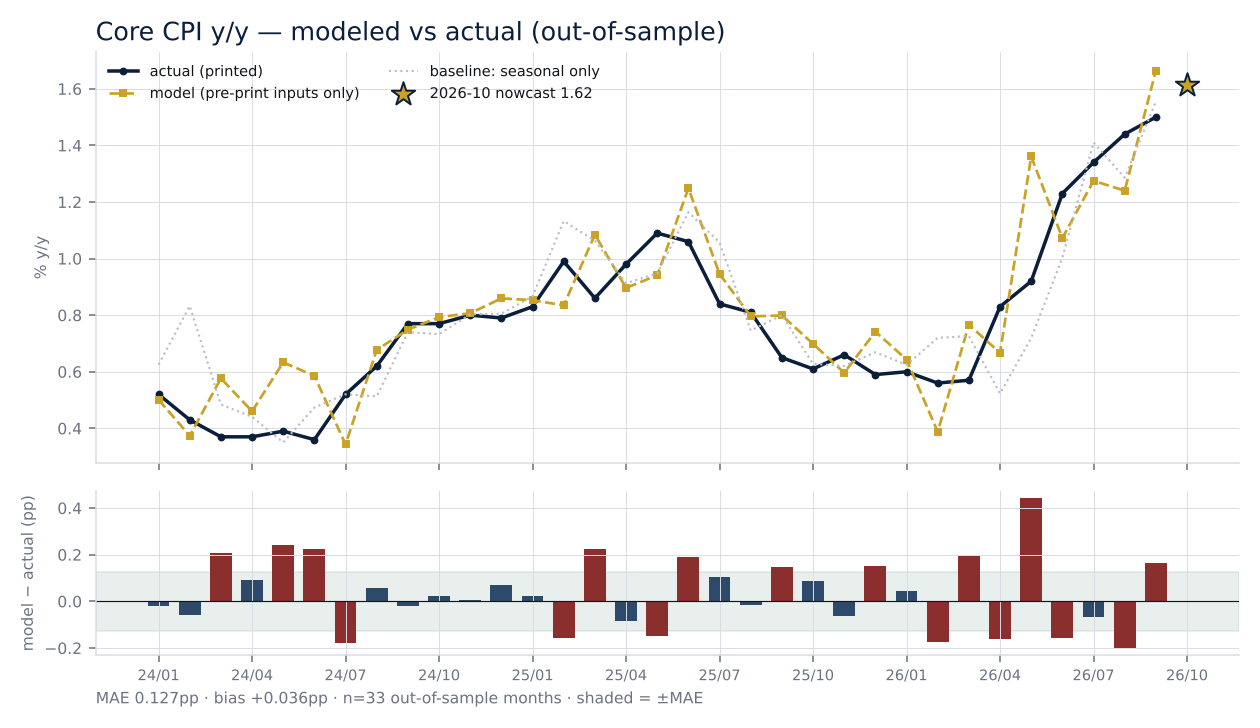
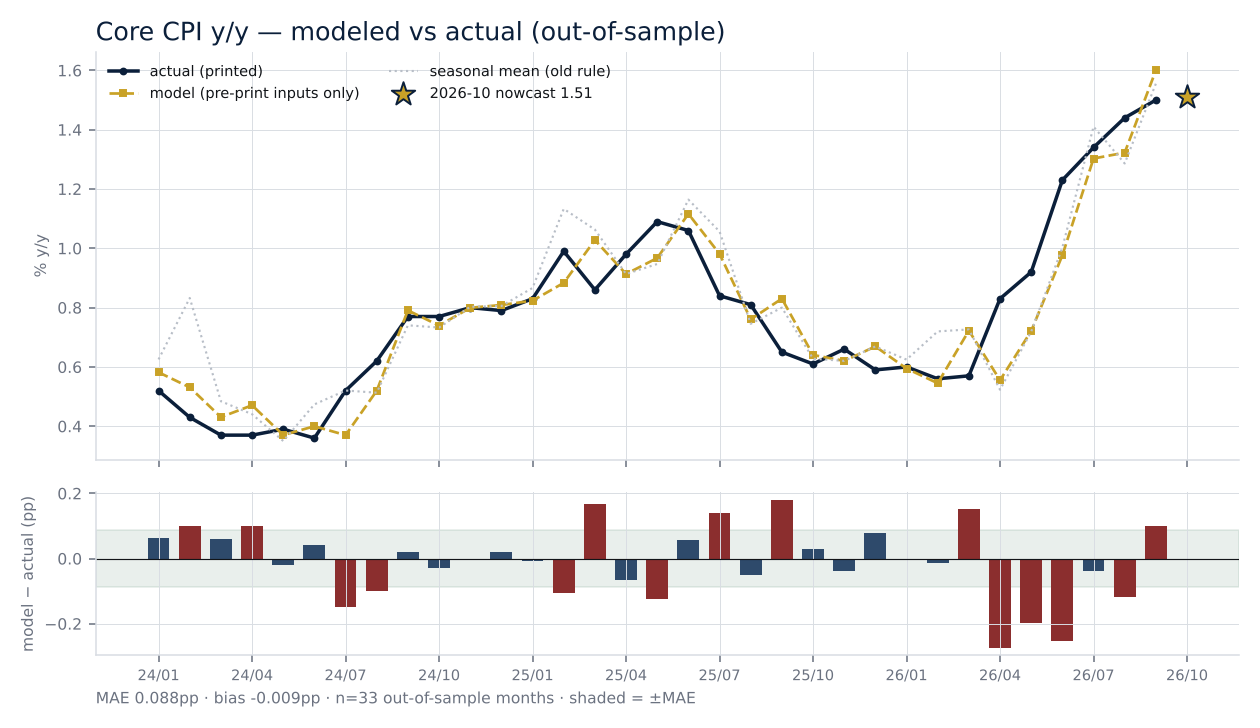
outputs: 2026-11-03

diff --git a/index.html b/index.html
@@ -214,7 +214,7 @@ return `
 <tr><td style="text-align:left">Electricity</td><td>${f(W.elec)}%</td><td style="text-align:left;white-space:normal">ERC Ft tariff per 4-month round (Jan / May / Sep) + government subsidy announcements · <span class="mono">erc.or.th</span></td><td>4-monthly</td><td class="ok" style="text-align:left">YES — announced ahead</td>${SRC("Electricity")}</tr>
 <tr><td style="text-align:left">LPG / cooking gas</td><td>${f(W.cookfuel)}%</td><td style="text-align:left;white-space:normal">Government ceiling price (MOC)</td><td>on change</td><td class="ok" style="text-align:left">YES — announced</td>${SRC("LPG / cooking gas")}</tr>
 <tr><td style="text-align:left">Raw food</td><td>${f(W.rawfood)}%</td><td style="text-align:left;white-space:normal">MOC/DIT open data (no key) · <span class="mono">dataapi.moc.go.th/gis-product-prices?product_id&amp;from_date&amp;to_date</span>, one call per item per calendar year, product IDs pinned (the <span class="mono">/gis-products</span> lookup 500s) · eggs, pork, chicken, mackerel, rice, kale, morning glory, tomato, cabbage, banana, orange</td><td>daily</td><td class="ok" style="text-align:left">YES — daily, real time</td>${SRC("Raw food")}</tr>
-<tr><td style="text-align:left">Core (ex raw food &amp; energy)</td><td>${f(W.core)}%</td><td style="text-align:left;white-space:normal"><b>No external feed.</b> Prepared food (${f(S.core_components.w_prepared)}%) and house rent (${f(S.core_components.w_rent)}%) are TPSO field surveys, published only in the print → modelled from own history (same-month seasonal mean)</td><td>—</td><td class="no" style="text-align:left">NO</td>${SRC("Core (ex raw food & energy)")}</tr>
+<tr><td style="text-align:left">Core (ex raw food &amp; energy)</td><td>${f(W.core)}%</td><td style="text-align:left;white-space:normal"><b>No external feed.</b> Prepared food (${f(S.core_components.w_prepared)}%) and house rent (${f(S.core_components.w_rent)}%) are TPSO field surveys, published only in the print → modelled from own history (same-month seasonal median)</td><td>—</td><td class="no" style="text-align:left">NO</td>${SRC("Core (ex raw food & energy)")}</tr>
 <tr><td style="text-align:left">Gold / FX (tested, rejected)</td><td>~2%</td><td style="text-align:left;white-space:normal">Yahoo GC=F, THB=X; Thai gold api.chnwt.dev — observable but too small to move core</td><td>daily</td><td style="text-align:left" class="ok">YES (too small)</td><td class="mut" style="text-align:left">not used</td></tr>
 <tr><td style="text-align:left">Consensus</td><td></td><td style="text-align:left;white-space:normal">Bloomberg ECO survey (<span class="mono">THCPIYOY</span> / <span class="mono">THCPCYOY</span>) → <span class="mono">macro/th/cpi/config.json</span></td><td>per print</td><td class="ok" style="text-align:left">YES</td>${SRC("Consensus")}</tr>
 </tbody></table>
@@ -234,13 +234,15 @@ ${fig('headline',`Pre-print rule: energy observed (EPPO/ERC/LPG), core and raw f
 </tbody></table>
 
 <h4>3 · Core — modeled vs actual</h4>
-${fig('core',`Model: core m/m = β₀ + β₁·seasonal + β₂·(energy + raw food)<sub>t−1</sub>, refit each month on prior data only. Grey dotted = seasonal mean alone.`)}
-<div class="f">core m/m = ${f(S.core.beta[0],3)} + ${f(S.core.beta[1],3)}·S<sub>m(t)</sub> + ${f(S.core.beta[2],3)}·X<sub>t−1</sub> &nbsp;(full-sample fit)</div>
+${fig('core',`Live rule: core m/m = same-month seasonal MEDIAN over prior years (a single outlier year — e.g. Feb-2022 prepared food — no longer drags the forecast). Grey dotted = seasonal mean (old rule). Out-of-sample, prior data only.`)}
+<div class="f">core m/m<sub>t</sub> = median{ core m/m in the same calendar month, all prior years } &nbsp;·&nbsp; y/y chained from the published t−1 core index</div>
 <table><thead><tr><th style="text-align:left">Rule</th><th>MAE y/y</th><th>within ±0.15pp</th><th style="text-align:left">Note</th></tr></thead><tbody>
-<tr><td style="text-align:left">Calibrated seasonal + lagged cost pass-through</td><td>${f(S.core.mae,3)}pp</td><td>${S.core.within_015}%</td><td style="text-align:left">${S.core.n} OOS months · bias ${(S.core.bias>=0?'+':'')+f(S.core.bias,3)} · since 2024 (chart): ${f(S.core.mae_2024,3)}pp vs seasonal ${f(S.core.seasonal_mae_2024,3)}pp</td></tr>
-<tr><td style="text-align:left">Seasonal mean only</td><td>${f(S.core.seasonal_mae,3)}pp</td><td>${S.core.seasonal_within_015}%</td><td style="text-align:left">${S.core.seasonal_mae<=S.core.mae?'<b>beats the calibrated model on the full history</b> — the pass-through term adds noise, not skill':'calibrated model wins'}</td></tr>
+<tr><td style="text-align:left"><b>Seasonal median (live, since 3 Nov 2026)</b></td><td><b>${f(S.core.mae,3)}pp</b></td><td>${S.core.within_015}%</td><td style="text-align:left">${S.core.n} OOS months · bias ${(S.core.bias>=0?'+':'')+f(S.core.bias,3)} · since 2024 (chart): ${f(S.core.mae_2024,3)}pp</td></tr>
+<tr><td style="text-align:left">Seasonal mean (previous rule)</td><td>${f(S.core.seasonal_mae,3)}pp</td><td>${S.core.seasonal_within_015}%</td><td style="text-align:left">since 2024: ${f(S.core.seasonal_mae_2024,3)}pp</td></tr>
+<tr><td style="text-align:left">Seasonal + lagged cost pass-through (dropped)</td><td>${f(S.core.pt_mae,3)}pp</td><td>${S.core.pt_within_015}%</td><td style="text-align:left">core m/m = ${f(S.core.beta[0],3)} + ${f(S.core.beta[1],3)}·S + ${f(S.core.beta[2],3)}·(energy+raw food)<sub>t−1</sub> — adds noise, not skill</td></tr>
 <tr><td style="text-align:left">Long-run mean</td><td>${f(S.core.flat_mae,3)}pp</td><td>—</td><td style="text-align:left">no seasonality</td></tr>
 </tbody></table>
+<p>Also tested and rejected (<span class="mono">predictor/test_core_ideas.py</span>, 45 OOS months): bottom-up seasonals over 8 core sub-blocks (0.118), last-3-years seasonal (0.108), momentum on the last 3 months' deviation (0.112–0.117), prepared food on concurrent + lagged raw food (0.151; since 2024 0.102, unstable). Median vs mean: better in 3 of 4 years, t ≈ 1.9 — modest, consistent, and the principled choice for a short sample with outlier years.</p>
 ${fig('core_components',`Core m/m and its two largest pieces. Autocorrelation(1) of core m/m ${(S.core_components.autocorr1>=0?'+':'')+f(S.core_components.autocorr1,2)}, std ${f(S.core_components.std,2)}pp: nothing to extrapolate, so core is irreducibly seasonal with pre-print data.`)}
 
 <h4>4 · Motor fuel — the edge</h4>
@@ -265,7 +267,7 @@ ${fig('contributions',`Weight × block m/m stacked against the printed headline 
 <tr><td style="text-align:left">Electricity</td><td>${f(W.elec)}%</td><td>${f(N.blocks.electricity)}%</td><td>0bp</td><td style="text-align:left">Ft fixed within round</td></tr>
 <tr><td style="text-align:left">LPG</td><td>${f(W.cookfuel)}%</td><td>${f(N.blocks.lpg)}%</td><td>0bp</td><td style="text-align:left">ceiling frozen</td></tr>
 <tr><td style="text-align:left">Raw food</td><td>${f(W.rawfood)}%</td><td>${(N.blocks.raw_food>=0?'+':'')+f(N.blocks.raw_food)}%</td><td>${f(N.contrib_pp.rawfood*100,0)}bp</td><td style="text-align:left;white-space:normal">${N.blocks.raw_food_observed!=null?`observed DIT feed, ridge on ${rw.items||11} items (seasonal would be +${f(N.blocks.raw_food_seasonal)})`:`seasonal +${f(N.blocks.raw_food_seasonal)} + flood overlay +${f(N.blocks.flood_overlay)}pp (judgment)`}</td></tr>
-<tr><td style="text-align:left">Core</td><td>${f(W.core)}%</td><td>+${f(N.blocks.core)}%</td><td>${f(N.contrib_pp.core*100,0)}bp</td><td style="text-align:left">same-month seasonal mean</td></tr>
+<tr><td style="text-align:left">Core</td><td>${f(W.core)}%</td><td>+${f(N.blocks.core)}%</td><td>${f(N.contrib_pp.core*100,0)}bp</td><td style="text-align:left">same-month seasonal median</td></tr>
 <tr><td style="text-align:left"><b>Headline</b></td><td>100%</td><td><b>${(N.headline_mm>=0?'+':'')+f(N.headline_mm)}%</b></td><td></td><td style="text-align:left"><b>y/y ${f(N.headline_yoy)}</b> · core y/y ${f(N.core_yoy)} (m/m +${f(N.core_mm)})</td></tr>
 </tbody></table>
 
@@ -274,7 +276,7 @@ ${fig('contributions',`Weight × block m/m stacked against the printed headline 
 <li><b>Fuel is the edge</b> — one administered price, pass-through ≈ 1, observable daily; it alone explains most of headline m/m and catches the regime shifts (Apr-2026 cap break).</li>
 <li><b>Raw food needs weight calibration</b> to be usable (R² 0.00 → ${f(rw.oos_r2,2)}); eggs and pork, not vegetables, carry the signal.</li>
 <li><b>Electricity is deterministic</b> — a calendar of ERC Ft rounds plus announced subsidies; no regression.</li>
-<li><b>Core is irreducibly seasonal</b> — its movers are unobservable before the print; FX, gold and food inputs do not beat the seasonal mean, and on ${S.core.n} months the seasonal mean alone is at least as good as the calibrated rule.</li>
+<li><b>Core is irreducibly seasonal</b> — its movers are unobservable before the print; FX, gold, food cost-push, momentum and sub-block seasonals do not beat it; the only gain is robustness — the seasonal <i>median</i> cuts core MAE to ${f(S.core.mae,3)}pp vs ${f(S.core.seasonal_mae,3)}pp for the mean.</li>
 <li><b>Methodology:</b> elementary index is Dutot (arithmetic), not Jevons — so monthly means of daily prices are the right fuel input.</li></ul>
 
 <h4>10 · Files &amp; how to run</h4>
